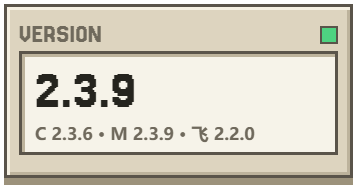
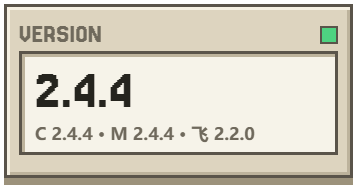
docs(readme): 头部版本卡片与最近一版说明更新到 2.4.4
- 版本卡片重渲染（2.4.4 · C 2.4.4 / M 2.4.4 / 飞 2.2.0）
- 发行说明链接指向 2.4.4，补 2.4.4 摘要块

Changed region(s): [[0.1849, 0.3704, 0.4006, 0.582], [0.4006, 0.6614, 0.493, 0.7407], [0.1849, 0.6614, 0.2773, 0.7407]]

diff --git a/README.md b/README.md
@@ -35,7 +35,14 @@
 
 每个插件独立保存配置与凭据，按需启动，不共享业务密钥。插件仓只发布插件资源，桌面安装包请前往 [FISH-Dock](https://github.com/Fish-under-sea/FISH-Dock)。
 
-当前发行（以 `catalog/stable.json` 为唯一权威）：Magpie **2.4.4**（原生标识 `v0.1.4262+fish.41`，要求 FISH Dock ≥ 2.3.4）、Clash **2.4.4**、飞书 **2.2.0**。本版详见 [2.4.1 发行说明](docs/releases/2.4.1.md)（Clash 外观页修复）与 [2.4.0 发行说明](docs/releases/2.4.0.md)（外观分页 + 记忆 Agent）。
+当前发行（以 `catalog/stable.json` 为唯一权威）：Magpie **2.4.4**（原生标识 `v0.1.4262+fish.41`，要求 FISH Dock ≥ 2.3.4）、Clash **2.4.4**、飞书 **2.2.0**。本版详见 [2.4.4 发行说明](docs/releases/2.4.4.md)（外观页签图标、底图遮挡真正生效、玻璃覆盖生成、宿主页桥新上限）；外观分页与记忆 Agent 见 [2.4.0 发行说明](docs/releases/2.4.0.md)。
+
+**2.4.4：外观页签图标补齐、底图遮挡真正生效、玻璃覆盖改为生成**
+
+- **Magpie**：设置页「外观」页签补上图标（此前只有它没有）；壁纸遮罩改为 `--wall-veil` 变量并在滑块松手后重画外观表——此前遮罩只随强调色/壁纸刷新，所以「底图遮挡」拖了也没反应；回滚 2.4.3 改坏的侧栏内滚，版式恢复原样。
+- **Magpie**：玻璃覆盖不再手写清单，改由 `plugins/magpie/tools/glass-surfaces.mjs` 扫 `app.css` 生成（92 条命中），只改底色不动布局；设置页吸顶条不再在页签下留深色唇边。
+- **Magpie**：字体颜色「清空」改为「重置」，点了立刻回到主题默认。
+- **Clash**：适配宿主页桥 2 MiB 新上限（宿主 PR #93），壁纸压缩预算 360 KiB → 1.5 MiB、起步 3840px；新增 `PAYLOAD_TOO_LARGE` 等四个错误码文案，超限不再「假死 20 秒」。
 
 **2.4.0：外观独立成页、液态玻璃按区域调节，Clash 也有外观设置；Magpie 内置记忆 Agent**
 
